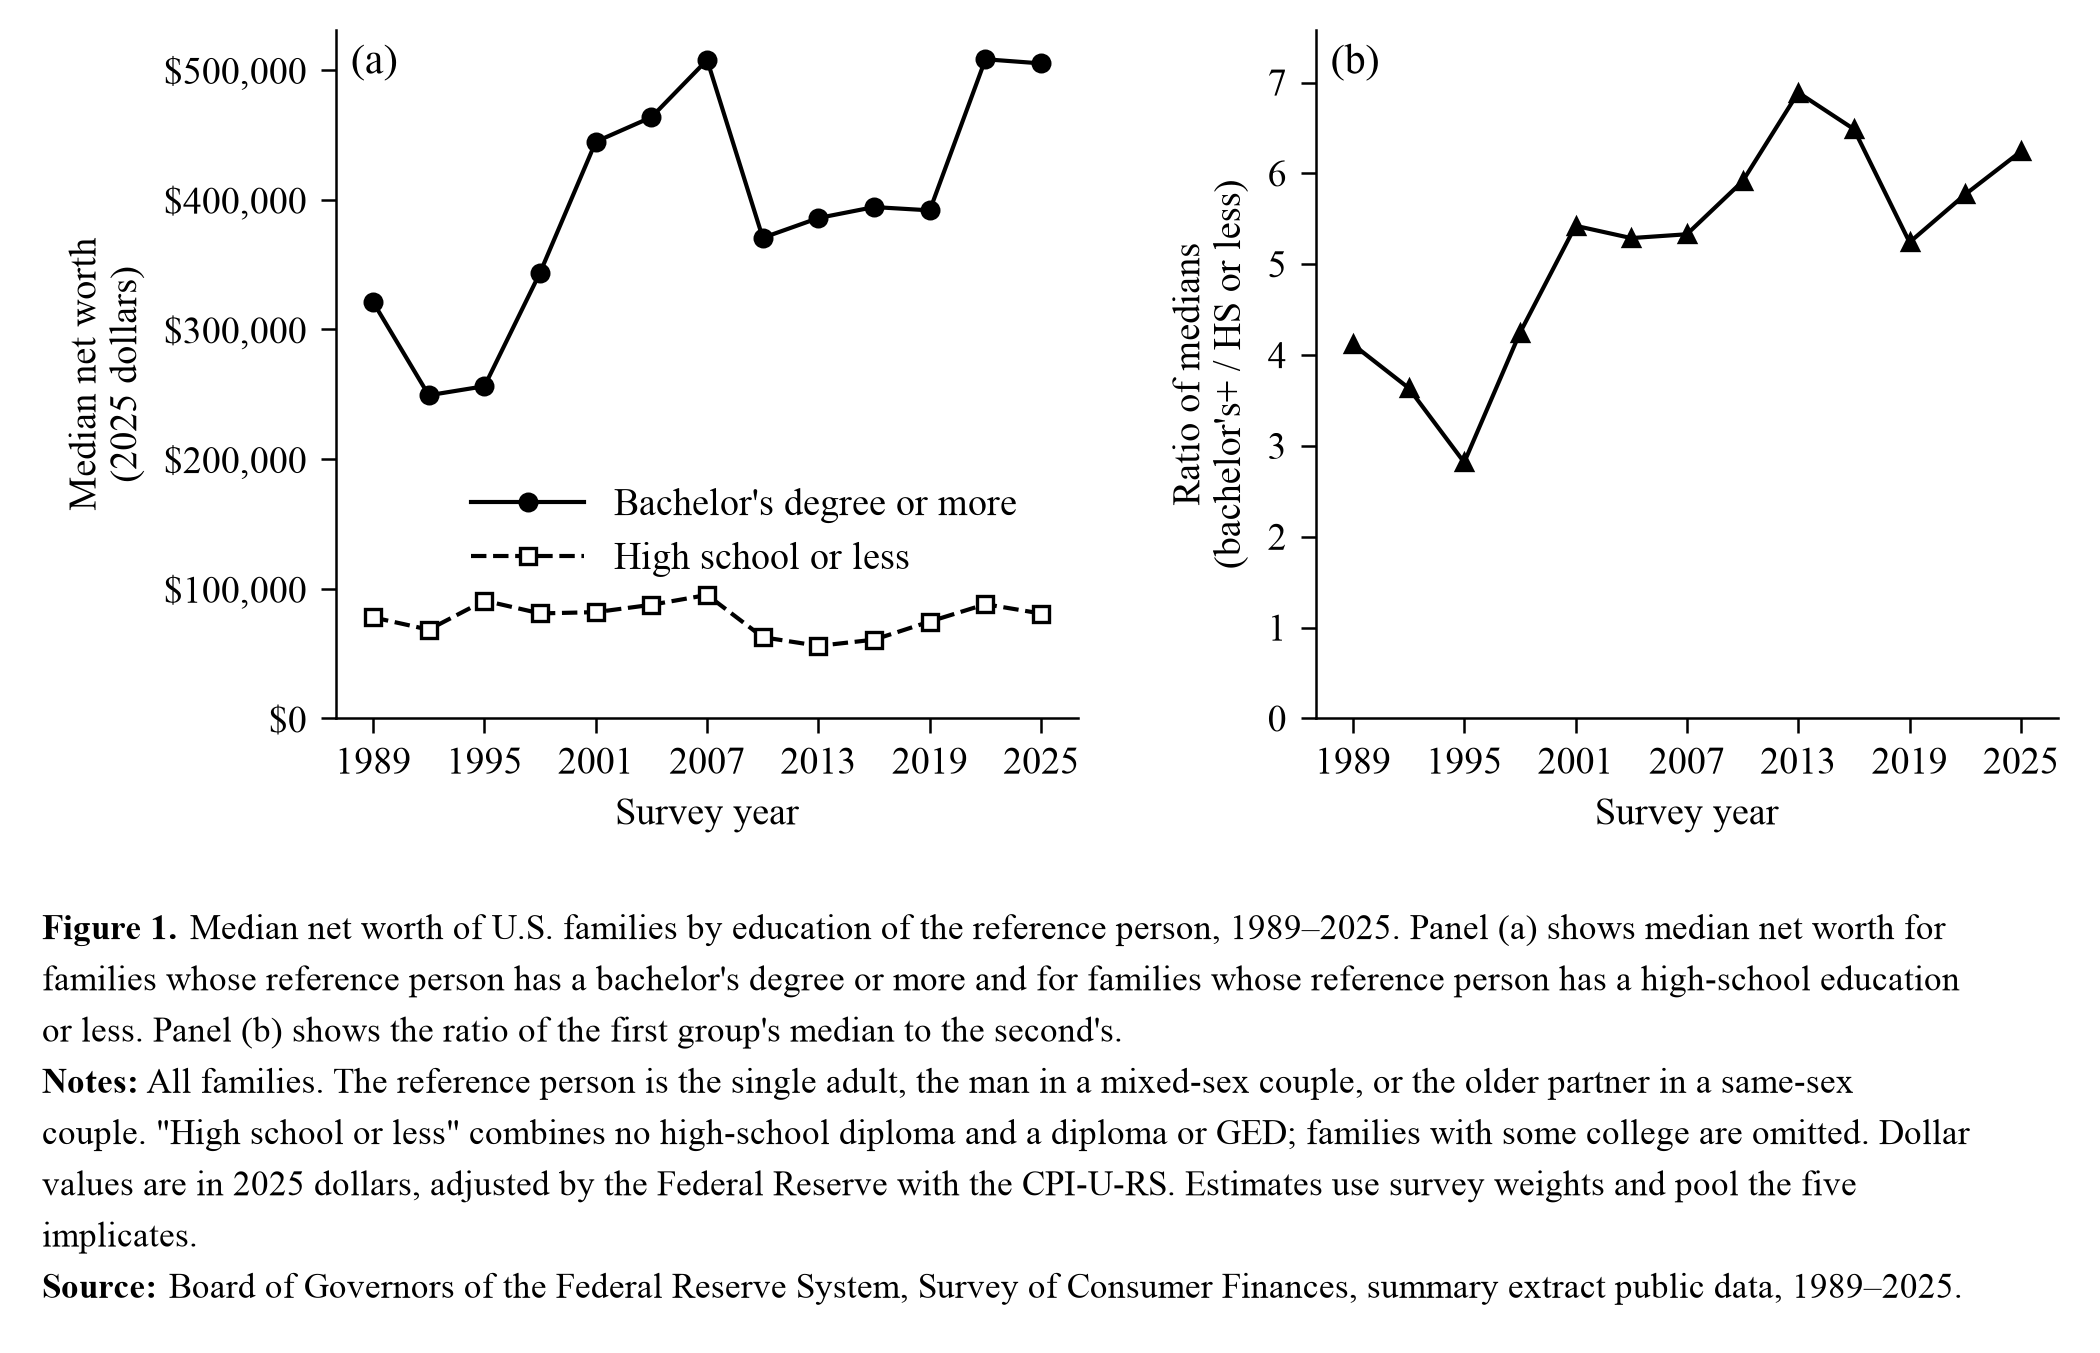
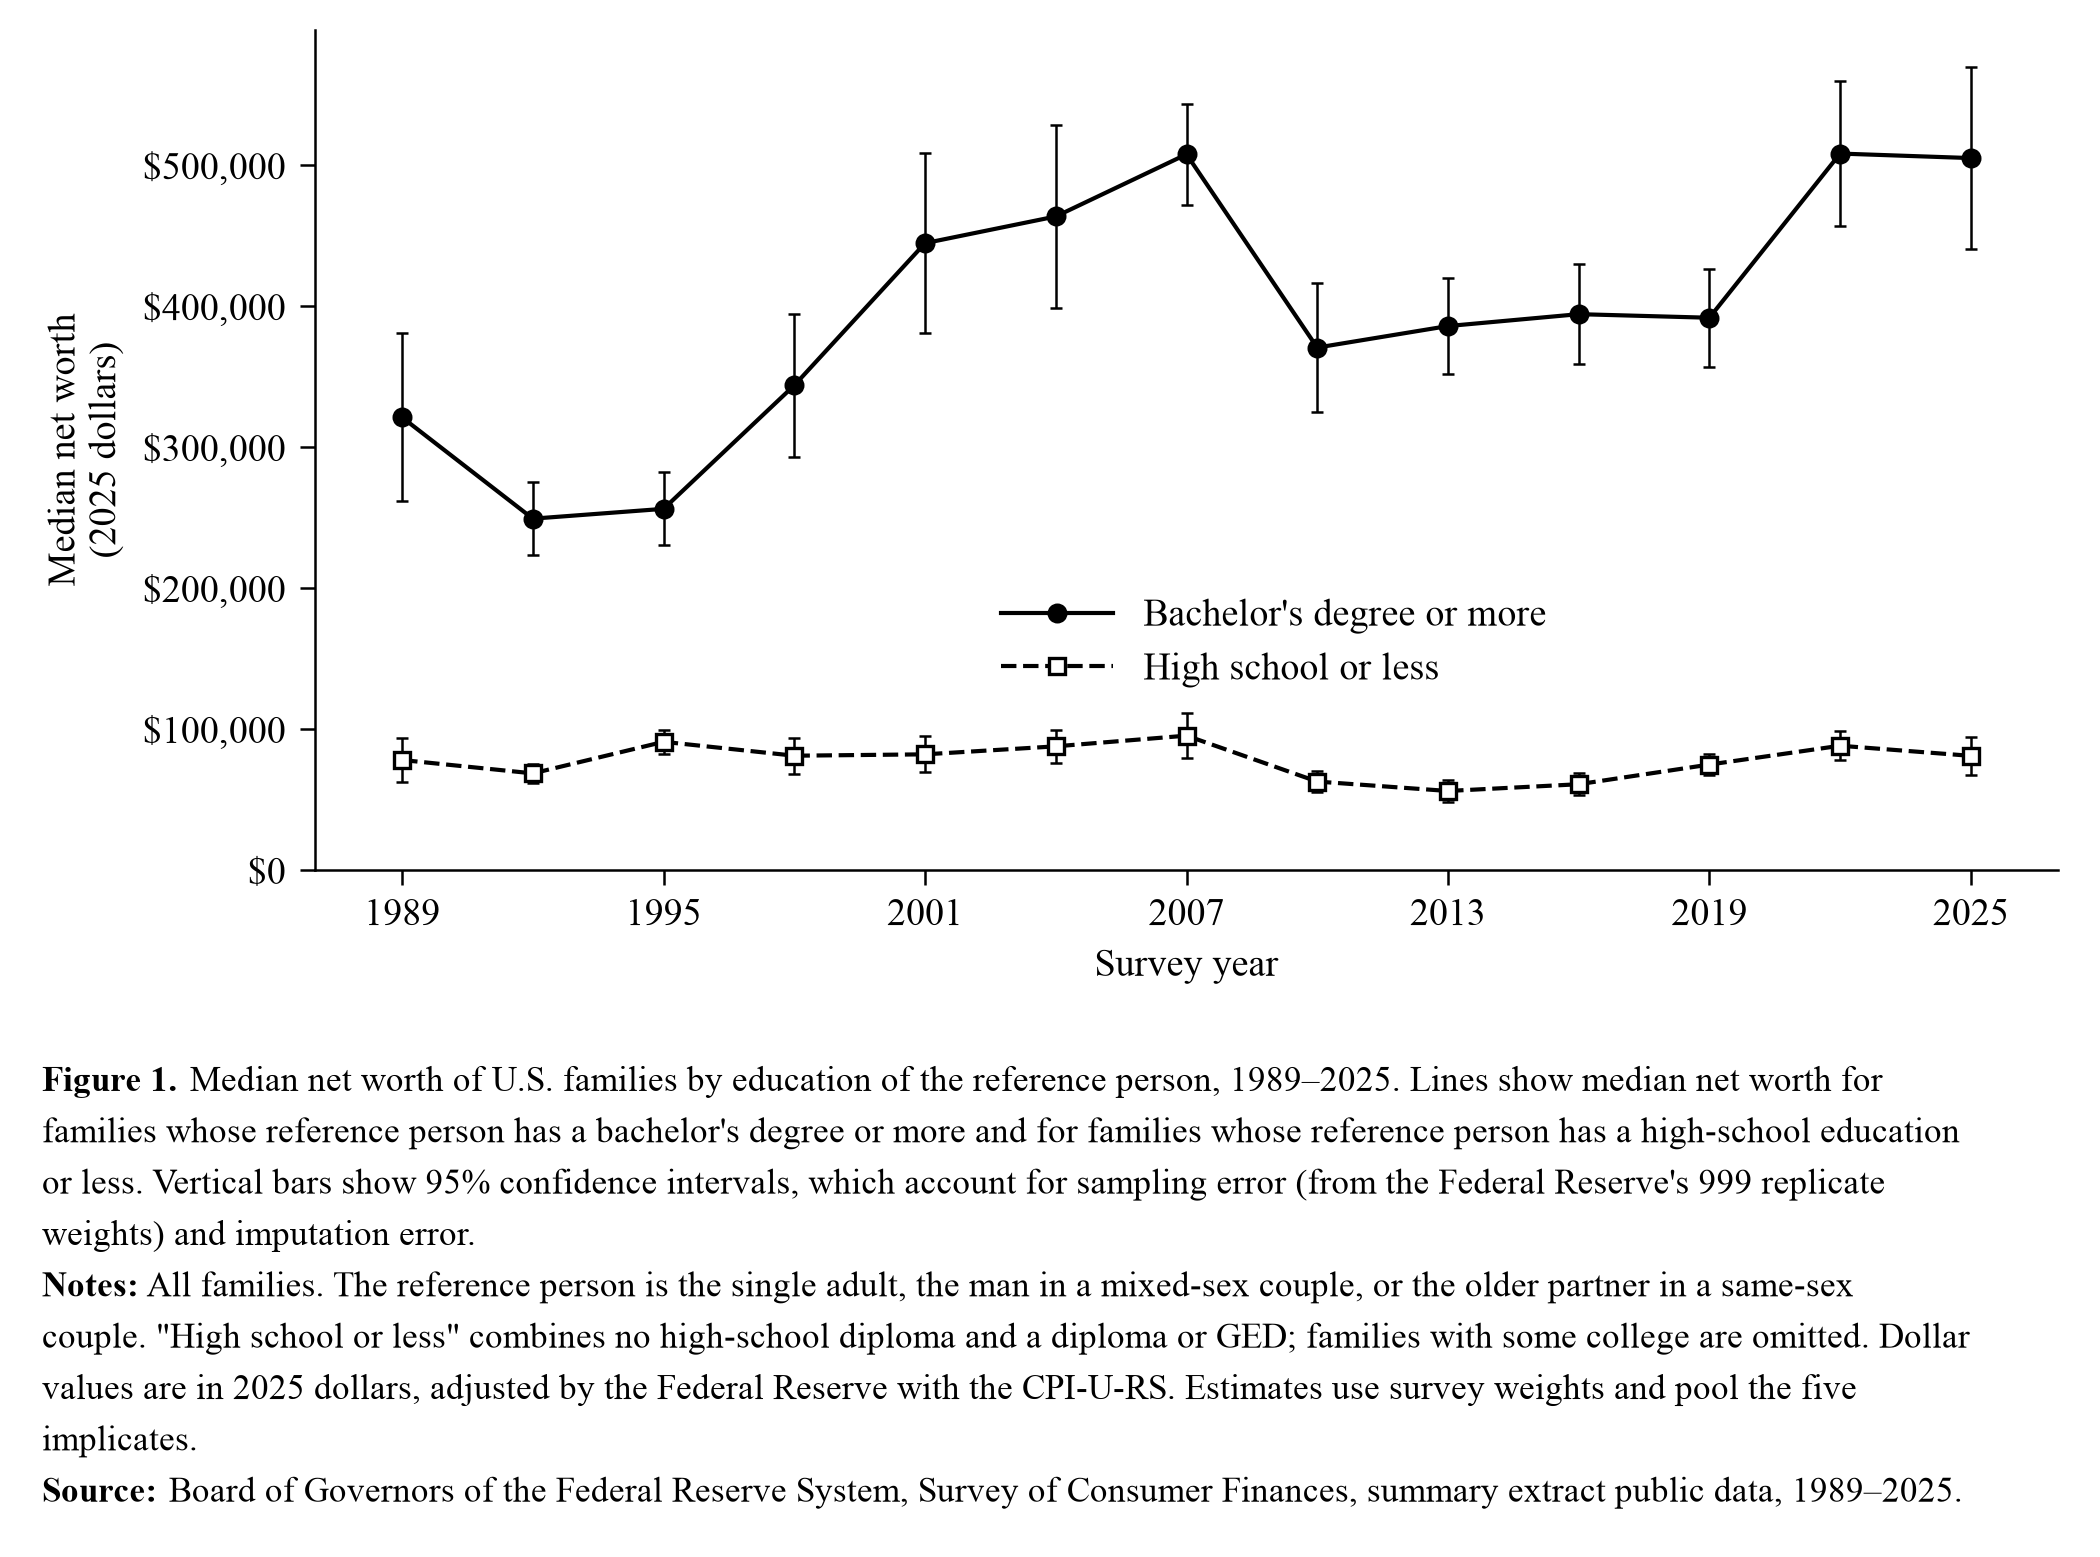
Add 95% error bars to Figure 1 and drop its ratio panel
Figure 1 (medians) is now a single panel with 95% confidence intervals
from data/net_worth_by_education.csv, and its caption describes the bars.
The ratio panel is optional in plot.py; Figure 2 (means) keeps it and now
reads its ratio from data/net_worth_ratio.csv, which changes that image
only by sub-pixel rounding.

diff --git a/plot.py b/plot.py
@@ -1,11 +1,13 @@
 """Plot net worth of families headed by a college graduate vs. families headed by
 someone with a high-school education or less, 1989-2025 (SCF, 2025 dollars).
-One figure for means and one for medians, otherwise identical.
+Figure 1 shows medians with 95% confidence intervals as error bars. Figure 2
+shows means, with a second panel for the ratio between the two groups.
 
 Black-and-white journal style: groups are told apart by line style and marker,
 and the numbered caption, notes and source sit below the panels.
 
-Reads data/net_worth_by_education.csv (run get_data.py first).
+Reads data/net_worth_by_education.csv and data/net_worth_ratio.csv
+(run get_data.py first).
 Writes figures/net_worth_by_education_median.png (medians, Figure 1) and
 figures/net_worth_by_education_mean.png (means, Figure 2).
 """
@@ -18,11 +20,13 @@ import pandas as pd
 from matplotlib.ticker import FuncFormatter
 
 DATA = Path("data/net_worth_by_education.csv")
-# (statistic, figure number, output file)
+RATIO_DATA = Path("data/net_worth_ratio.csv")
+# (statistic, figure number, output file, draw 95% error bars, add ratio panel)
 FIGURES = [
-    ("median", 1, Path("figures/net_worth_by_education_median.png")),
-    ("mean", 2, Path("figures/net_worth_by_education_mean.png")),
+    ("median", 1, Path("figures/net_worth_by_education_median.png"), True, False),
+    ("mean", 2, Path("figures/net_worth_by_education_mean.png"), False, True),
 ]
+ERRORBAR = dict(fmt="none", ecolor="black", elinewidth=0.6, capsize=1.5, capthick=0.6)
 
 COLLEGE, HS = "Bachelor's degree or more", "High school or less"
 SERIES = {
@@ -44,21 +48,31 @@ SOURCE = (
 )
 
 
-def caption(stat, number):
+def caption(stat, number, error_bars, ratio_panel):
+    groups = (f"{stat} net worth for families whose reference person has a bachelor's "
+              "degree or more and for families whose reference person has a high-school "
+              "education or less.")
+    if ratio_panel:
+        body = (f"Panel (a) shows {groups} Panel (b) shows the ratio of the first "
+                f"group's {stat} to the second's.")
+    else:
+        body = f"Lines show {groups}"
+    if error_bars:
+        body += (" Vertical bars show 95% confidence intervals, which account for sampling "
+                 "error (from the Federal Reserve's 999 replicate weights) and imputation "
+                 "error.")
     return [
         (f"Figure {number}.",
          f"{stat.capitalize()} net worth of U.S. families by education of the reference "
-         f"person, 1989–2025. Panel (a) shows {stat} net worth for families whose reference "
-         "person has a bachelor's degree or more and for families whose reference person "
-         "has a high-school education or less. Panel (b) shows the ratio of the first "
-         f"group's {stat} to the second's."),
+         f"person, 1989–2025. {body}"),
         ("Notes:", NOTES),
         ("Source:", SOURCE),
     ]
 
 
 WIDTH_IN = 7.0          # full text width of a journal page
-PLOT_HEIGHT_IN = 2.9
+PLOT_HEIGHT_IN = 2.9    # two panels side by side
+SINGLE_PLOT_HEIGHT_IN = 3.4
 CAPTION_PT = 8.5
 WRAP_CHARS = 132        # characters per caption line at CAPTION_PT on WIDTH_IN
 
@@ -79,13 +93,14 @@ plt.rcParams.update({
 })
 
 
-def style(ax, letter):
+def style(ax, letter=None):
     for side in ["top", "right"]:
         ax.spines[side].set_visible(False)
     ax.set_xticks([1989, 1995, 2001, 2007, 2013, 2019, 2025])
     ax.set_xlim(1987, 2027)
     ax.set_ylim(0, None)
-    ax.text(0.02, 0.98, f"({letter})", transform=ax.transAxes, va="top", fontsize=10)
+    if letter:
+        ax.text(0.02, 0.98, f"({letter})", transform=ax.transAxes, va="top", fontsize=10)
 
 
 def caption_lines(paragraphs):
@@ -98,35 +113,35 @@ def caption_lines(paragraphs):
     return lines
 
 
-def draw(wide, stat, number, out):
-    lines = caption_lines(caption(stat, number))
+def draw(wide, ratios, stat, number, out, error_bars, ratio_panel):
+    lines = caption_lines(caption(stat, number, error_bars, ratio_panel))
     line_in = CAPTION_PT * 1.45 / 72
     caption_in = len(lines) * line_in + 0.25
-    total_in = PLOT_HEIGHT_IN + caption_in
+    total_in = (PLOT_HEIGHT_IN if ratio_panel else SINGLE_PLOT_HEIGHT_IN) + caption_in
     fig = plt.figure(figsize=(WIDTH_IN, total_in))
-    levels, ratio_ax = fig.subplots(1, 2, gridspec_kw=dict(
-        left=0.16, right=0.98, top=1 - 0.1 / total_in, bottom=(caption_in + 0.5) / total_in,
-        wspace=0.32))
+    axes = fig.subplots(1, 2 if ratio_panel else 1, squeeze=False, gridspec_kw=dict(
+        left=0.16 if ratio_panel else 0.15, right=0.98, top=1 - 0.1 / total_in,
+        bottom=(caption_in + 0.5) / total_in, wspace=0.32))[0]
+    levels = axes[0]
 
     values = wide[f"{stat}_net_worth"]
     for group in [COLLEGE, HS]:
+        if error_bars:
+            levels.errorbar(values.index, values[group],
+                            yerr=wide[f"{stat}_moe95"][group], **ERRORBAR)
         levels.plot(values.index, values[group], color="black", label=group,
                     **SERIES[group])
     levels.yaxis.set_major_formatter(FuncFormatter(lambda v, _: f"${v:,.0f}"))
     levels.set_ylabel(f"{stat.capitalize()} net worth\n(2025 dollars)")
     levels.set_xlabel("Survey year")
-    style(levels, "a")
+    style(levels, "a" if ratio_panel else None)
     # The band between the two series is empty in every year.
     levels.legend(loc="center", bbox_to_anchor=(0.55, 0.27), frameon=False,
                   handlelength=3)
 
-    r = values[COLLEGE] / values[HS]
-    ratio_ax.plot(r.index, r.values, color="black", **RATIO)
-    ratio_ax.yaxis.set_major_formatter(FuncFormatter(lambda v, _: f"{v:.0f}"))
-    ratio_ax.set_ylabel(f"Ratio of {stat}s\n(bachelor's+ / HS or less)")
-    ratio_ax.set_xlabel("Survey year")
-    style(ratio_ax, "b")
-    ratio_ax.set_ylim(0, r.max() * 1.1)
+    if ratio_panel:
+        draw_ratio(axes[1], ratios[ratios["stat"] == stat].set_index("year"), stat,
+                   error_bars)
 
     renderer = fig.canvas.get_renderer()
     for i, (lead, text) in enumerate(lines):
@@ -143,12 +158,26 @@ def draw(wide, stat, number, out):
     print(f"wrote {out}")
 
 
+def draw_ratio(ax, r, stat, error_bars):
+    top = r["ratio"].max()
+    if error_bars:
+        ax.errorbar(r.index, r["ratio"], yerr=r["ratio_moe95"], **ERRORBAR)
+        top = (r["ratio"] + r["ratio_moe95"]).max()
+    ax.plot(r.index, r["ratio"], color="black", **RATIO)
+    ax.yaxis.set_major_formatter(FuncFormatter(lambda v, _: f"{v:.0f}"))
+    ax.set_ylabel(f"Ratio of {stat}s\n(bachelor's+ / HS or less)")
+    ax.set_xlabel("Survey year")
+    style(ax, "b")
+    ax.set_ylim(0, top * 1.1)
+
+
 def main():
     df = pd.read_csv(DATA)
     df = df[df["group"].isin([COLLEGE, HS])]
     wide = df.pivot(index="year", columns="group")
-    for stat, number, out in FIGURES:
-        draw(wide, stat, number, out)
+    ratios = pd.read_csv(RATIO_DATA)
+    for stat, number, out, error_bars, ratio_panel in FIGURES:
+        draw(wide, ratios, stat, number, out, error_bars, ratio_panel)
 
 
 if __name__ == "__main__":
